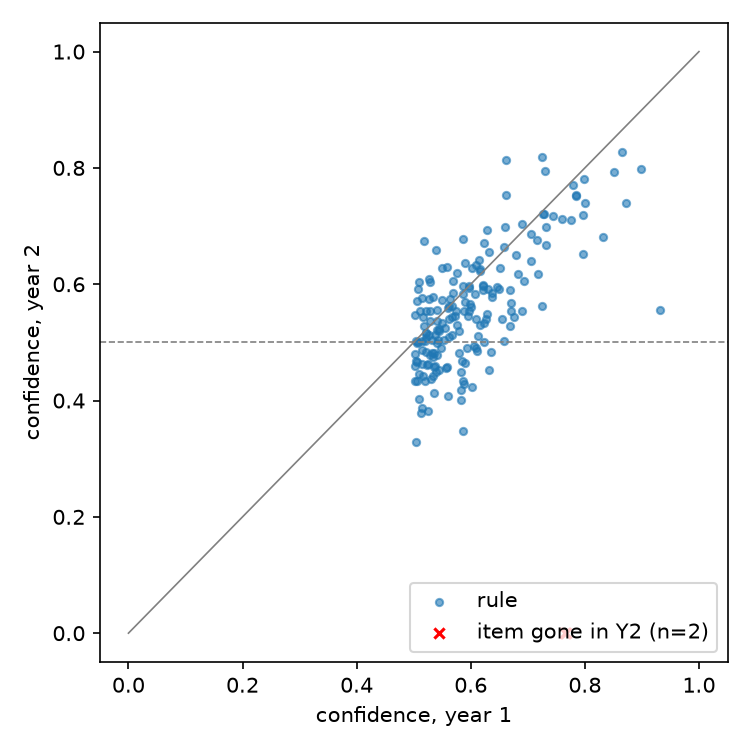
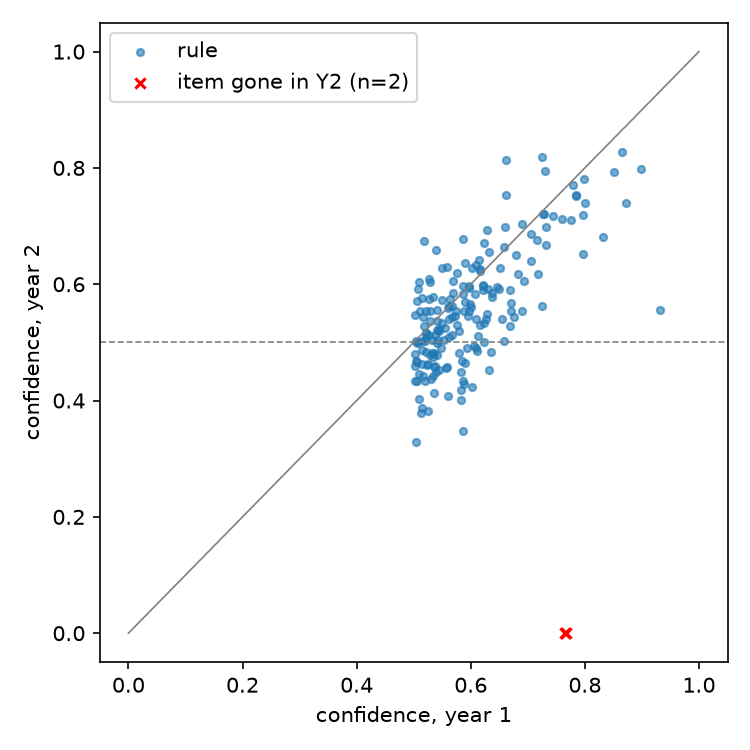
Fill roles, add reproduce section, fix F2 legend, update review notes
- README: team roles, data citation and analysis period, baseline wording,
  Reproduce section with commands and results table, plan freeze note
- F2: move legend so the gone-item markers are visible
- reviews/draft1_review.md: mark TLS fixed, narrow stale items, add new findings
- remove .gitkeep files from non-empty folders

diff --git a/src/run_all.py b/src/run_all.py
@@ -64,7 +64,7 @@ def f2(b):
     ax.axhline(0.5, color="grey", ls="--", lw=0.8)
     ax.set_xlabel("confidence, year 1")
     ax.set_ylabel("confidence, year 2")
-    ax.legend(loc="lower right")
+    ax.legend(loc="upper left")
     plt.tight_layout()
     plt.savefig(RESULTS / "f2_conf_y1_y2.png", dpi=150)
     plt.close()

diff --git a/README.md b/README.md
@@ -8,10 +8,12 @@
 
 | Student ID | Name | Role |
 |---|---|---|
-| 2022270655 | 최영인 | TBD |
-| 2022271329 | 정고은 | TBD |
-| 2023270643 | 유찬 | TBD |
-| 2023271305 | 이현섭 | TBD |
+| 2022270655 | 최영인 | Data & reproducibility: `clean.py`, `run_all`, data section and discarded-information table, reproduction rehearsals, `test_slide_numbers`, H3 question set and grading |
+| 2022271329 | 정고은 | Algorithms: `apriori.py`, `pcy.py`, textbook and hash tests, T2 |
+| 2023270643 | 유찬 | Evaluation: `evaluate.py`, `null_model.py`, H1, H2, customer concentration, sensitivity analysis, H3 question set and grading |
+| 2023271305 | 이현섭 | Agent: `agent.py`, Solar tools, paste-in and router baselines, H3 runs |
+
+Changes from the role proposal in plan §7: reproduction rehearsals moved from evaluation to data, and the customer-concentration check (computed in `evaluate.py`) moved from data to evaluation.
 
 ## Problem
 
@@ -19,7 +21,9 @@ An online retailer records hundreds of thousands of transactions. Finding which 
 
 ## Data
 
-We use the [UCI Online Retail II](https://archive.ics.uci.edu/dataset/502/online+retail+ii) dataset. It contains about 1 million order lines (about 40,000 baskets) from a UK-based online retailer, recorded between December 2009 and December 2011, and is licensed under CC BY 4.0. We treat each invoice as one basket. We remove cancellations and non-product rows, and we replace the `Customer ID` with a local number only in the local cache. Result files keep only aggregates.
+We use the [UCI Online Retail II](https://archive.ics.uci.edu/dataset/502/online+retail+ii) dataset. It contains about 1 million order lines (about 40,000 baskets) from a UK-based online retailer, recorded between December 2009 and December 2011, and is licensed under CC BY 4.0. We analyse 2009-12 to 2011-11 (year 1 against year 2) and drop the partial month 2011-12. We treat each invoice as one basket. We remove cancellations and non-product rows, and we replace the `Customer ID` with a local number only in the local cache. Result files keep only aggregates.
+
+Citation: Chen, D. (2012). Online Retail II [Dataset]. UCI Machine Learning Repository. https://doi.org/10.24432/C5CG6D. Used under CC BY 4.0. We removed rows and aggregated the data as described above.
 
 Raw data is not committed to this repository. To download it, run:
 
@@ -33,8 +37,38 @@ The script saves `data/raw/online_retail_II.xlsx` and checks its SHA-256 checksu
 
 1. **Frequent itemsets (MMDS Chapter 6):** Implement A-Priori and PCY to find frequent item pairs (triples reported as counts). Derive association rules with support, confidence, and lift. Compare the two algorithms on memory use and run time.
 2. **Validation:** Mine rules on an earlier time window and check whether they still hold on a later window. This addresses the risk of false discoveries (MMDS §1.2, Bonferroni's principle).
-3. **Baseline:** Compare against a naive baseline that pairs the best-selling products.
+3. **Baseline:** Compare HitRate@5 on held-out items against a popularity baseline (the five most common year-1 products) and against unfiltered pair rules.
 4. **LLM agent:** Build an agent on Upstage Solar with tool calls such as `rules_for(product)`, `top_rules(min_support, min_confidence)`, and `season_filter(period)`. The agent answers questions such as "What should we bundle for the Christmas season?" and cites the supporting support and confidence values.
+
+## Reproduce
+
+No API key is needed. From a clean checkout:
+
+```bash
+python3.14 -m venv .venv && source .venv/bin/activate
+pip install -r requirements.txt
+python scripts/download_data.py && python -m src.run_all   # T3 (shuffle null) takes about 20 minutes
+python -m src.run_all --only F2                           # one table or figure: T1 to T6, F1, F2
+```
+
+Run the tests (no pytest needed):
+
+```bash
+python -m tests.test_textbook && python -m tests.test_pcy_hash && python -m tests.test_evaluate && python -m tests.test_answer_key
+```
+
+| ID | Output in `results/` |
+|---|---|
+| T1 | `cleaning_log.csv` |
+| T2 | `pcy_compare.csv`, `timings.csv` (machine-dependent) |
+| T3 | `h1_seeds.csv`, `h1_summary.csv`, `null_check.csv` |
+| T4 | `h2.csv`, `h2_strata.csv` |
+| T5 | `t5_sensitivity.csv` |
+| F1 | `f1_monthly_baskets.csv`, `f1_monthly_baskets.png` |
+| F2 | `f2_conf_y1_y2.csv`, `f2_conf_y1_y2.png` |
+| Agent tables | `rules_y1.csv`, `rules_season.csv` (built by `src.agent` when missing) |
+
+All numbers are first-draft values. Open issues from review round 1 are listed in [`reviews/draft1_review.md`](reviews/draft1_review.md).
 
 ## Solar agent setup
 
@@ -49,7 +83,7 @@ TLS uses the `certifi` CA bundle, so no certificate setup is needed.
 
 ## Plan
 
-The project plan is in [`plan/plan_v0.6.md`](plan/plan_v0.6.md) (Korean). The evaluation criteria were frozen at tag `plan-v0.6` (commit `685efa9`) and are not changed after that.
+The project plan is in [`plan/plan_v0.6.md`](plan/plan_v0.6.md) (Korean). The evaluation criteria were frozen at tag `plan-v0.6` (commit `685efa9`). After the tag, the file changed only to drop rubric-point labels and internal review scores, and to add the agile process section in §6. The criteria in §1 are unchanged (check with `git diff plan-v0.6 HEAD -- plan/plan_v0.6.md`).
 
 ## Deliverables
 
@@ -57,4 +91,4 @@ The project plan is in [`plan/plan_v0.6.md`](plan/plan_v0.6.md) (Korean). The ev
 - A performance comparison of A-Priori and PCY (memory and time)
 - A validated rule set with its out-of-period results
 - A Solar-based agent that answers questions about the rules
-- A final report and presentation that cover the rubric items: question and scope, method and justification, what the method discards, and reproducibility
+- A final report and presentation that cover the rubric items: question and scope, method and justification, what the method discards, reproducibility, and delivery

diff --git a/reviews/draft1_review.md b/reviews/draft1_review.md
@@ -19,13 +19,13 @@
 
 ### high
 
-1. `.gitignore`: `data/`, `.venv/`가 심볼릭 링크를 막지 못한다. worktree의 `data`, `.venv` 링크가 커밋될 수 있다. 슬래시 없는 `data`, `.venv`로 바꾼다.
+1. `.gitignore`: `data/`, `.venv/`가 심볼릭 링크를 막지 못한다. 원본 체크아웃에는 링크가 없고, worktree(`.claude/worktrees/draft-v1`)의 `data`, `.venv` 링크만 미추적으로 보인다. 거기서 `git add -A`를 하면 커밋될 수 있다. 슬래시 없는 `data`, `.venv`로 바꾼다.
 2. `src/agent.py` `season_filter`: 키워드를 부분 문자열로 맞춘다. "christmas 2011", "summer season" 같은 데이터에 없는 기간(함정)에도 315개를 반환한다. "november 2010"은 0개를 반환한다. 연도와 월을 파싱하거나 period를 enum으로 바꾼다.
-3. TLS: venv Python(python.org 3.14)에 CA 인증서가 없어 Solar 호출이 `CERTIFICATE_VERIFY_FAILED`로 실패한다. `Install Certificates.command`를 실행하거나 `SSL_CERT_FILE=/etc/ssl/cert.pem`을 쓴다. README에 적는다.
+3. TLS: venv Python(python.org 3.14)에 CA 인증서가 없어 Solar 호출이 `CERTIFICATE_VERIFY_FAILED`로 실패한다. `Install Certificates.command`를 실행하거나 `SSL_CERT_FILE=/etc/ssl/cert.pem`을 쓴다. README에 적는다. **해결 (11/5):** `agent.py`가 certifi CA 번들을 쓰고, README Solar 절에 적었다.
 
 ### medium
 
-4. `src/pcy.py` T2: `n_candidates` 열의 정의가 섞였다. A-Priori는 C(m,2), PCY는 실제 출현한 후보 수다. 열을 `n_candidates_occurring`, `n_candidates_all`로 나눈다.
+4. `src/pcy.py` T2: `n_candidates` 열의 정의가 섞였다. A-Priori 행은 C(m,2)(253,828), PCY 행은 실제 출현한 후보 수다. `n_candidates_all` 열은 이미 있다. A-Priori 행의 `n_candidates`를 `n_occurring`(252,748)으로 바꿔 PCY와 정의를 맞춘다.
 5. `src/apriori.py` 2차 패스: Python 리스트에 모은 뒤 bincount한다. PCY는 numpy로 벡터화되어 있다. 그래서 시간·메모리 비교는 구현 차이를 반영한다. 구현 방식을 맞추거나, 보고서에 "구현 차이"라고 적는다.
 6. `tests/test_textbook.py`: `rules()`의 conf/lift 필터를 지워도 테스트가 통과한다. 걸러지는 규칙이 생기는 예제를 추가한다. 교재 예제(MMDS Example 6.1)와 대조하는 테스트도 없다.
 7. `tests/test_evaluate.py`: `_split` off-by-one, `_ci`, `top5_filter`, `drop_top1pct`, `merge_same_day`, changed 플래그를 테스트하지 않는다.
@@ -43,7 +43,7 @@
 - T1 로그에 장바구니 수와 상품 수 줄이 없다. `cleaning_log.csv`는 캐시를 처음 만들 때만 써진다.
 - 캐시 이름이 `lines_…`이다. plan은 `baskets_…`이다.
 - `timings.csv`의 CPU가 "arm"으로만 기록된다.
-- `min_count` 테스트가 없다. pytest가 없어 `python -m tests.x`로만 돈다. README에 실행 명령을 적는다.
+- `min_count` 테스트가 없다. pytest가 없어 `python -m tests.x`로만 돈다. (README Reproduce 절에 실행 명령을 적었다.)
 - 셔플 겹침 처리가 plan과 다르다(무작위 자리를 더해 같이 섞는다). 남은 겹침은 0이다.
 - 라우터가 support 숫자를 confidence로 넣는다. 끝에 공백이 있는 상품명 22개를 매칭하지 못한다.
 - `rules_for("")`가 189개 전부를 반환한다. `top_rules(limit=-1)`도 결과를 낸다.
@@ -51,6 +51,12 @@
 - 붙여 넣기 프롬프트에는 규칙 약 504개(31k자)가 들어간다. plan은 약 200개로 가정했다.
 - F1의 2011-12는 9일뿐인 부분 월이다. 표시가 필요하다.
 - 가변 기본 인자 캐시와 `searchsorted` 역산은 학생이 설명하기 어렵다.
+
+## 리뷰 이후 추가로 찾은 것 (11/5, 레포·문서 대조 점검)
+
+- 3개 조합 개수(README Method 1, plan §1 "개수만 보조 보고")를 만드는 코드가 없다. support 1%의 빈발 3개 조합 수를 T2나 T3에 한 줄 추가한다.
+- `run_all.py` T6: `agent_runs.jsonl`과 `h3_grades.csv`가 둘 다 생기면 `NotImplementedError`로 전체 실행이 멈춘다. 12/1 전까지는 경고만 출력하게 한다.
+- F2: 사라진 상품 규칙 2개는 같은 쌍의 양방향이라 (0.766, 0) 한 점에 겹친다. 범례는 n=2인데 x는 하나만 보인다. 겹침을 표시하거나 주석을 단다. (범례가 점을 가리던 문제는 11/5에 범례를 왼쪽 위로 옮겨 고쳤다.)
 
 ## 초안 결과 (판정 전, 참고)
 
